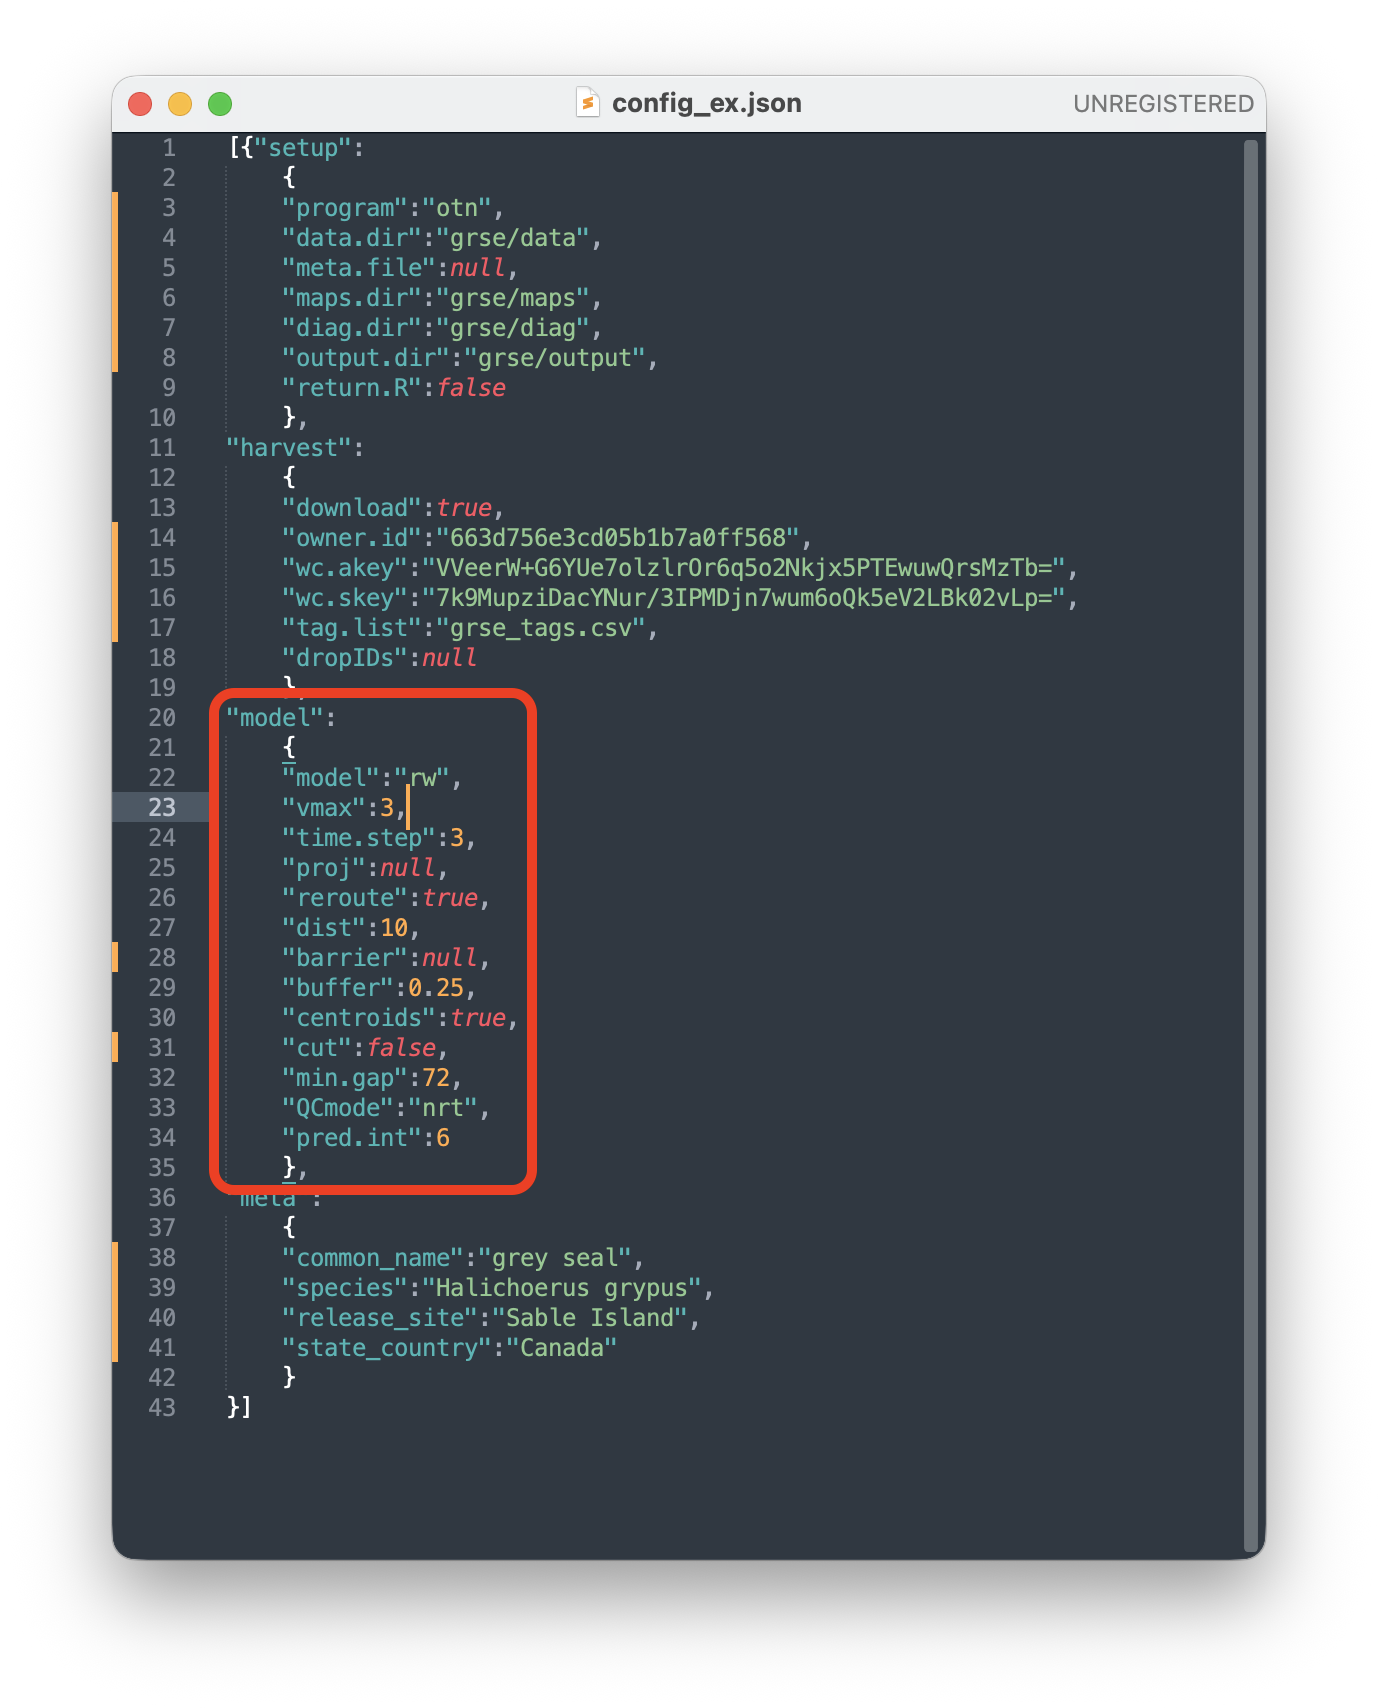
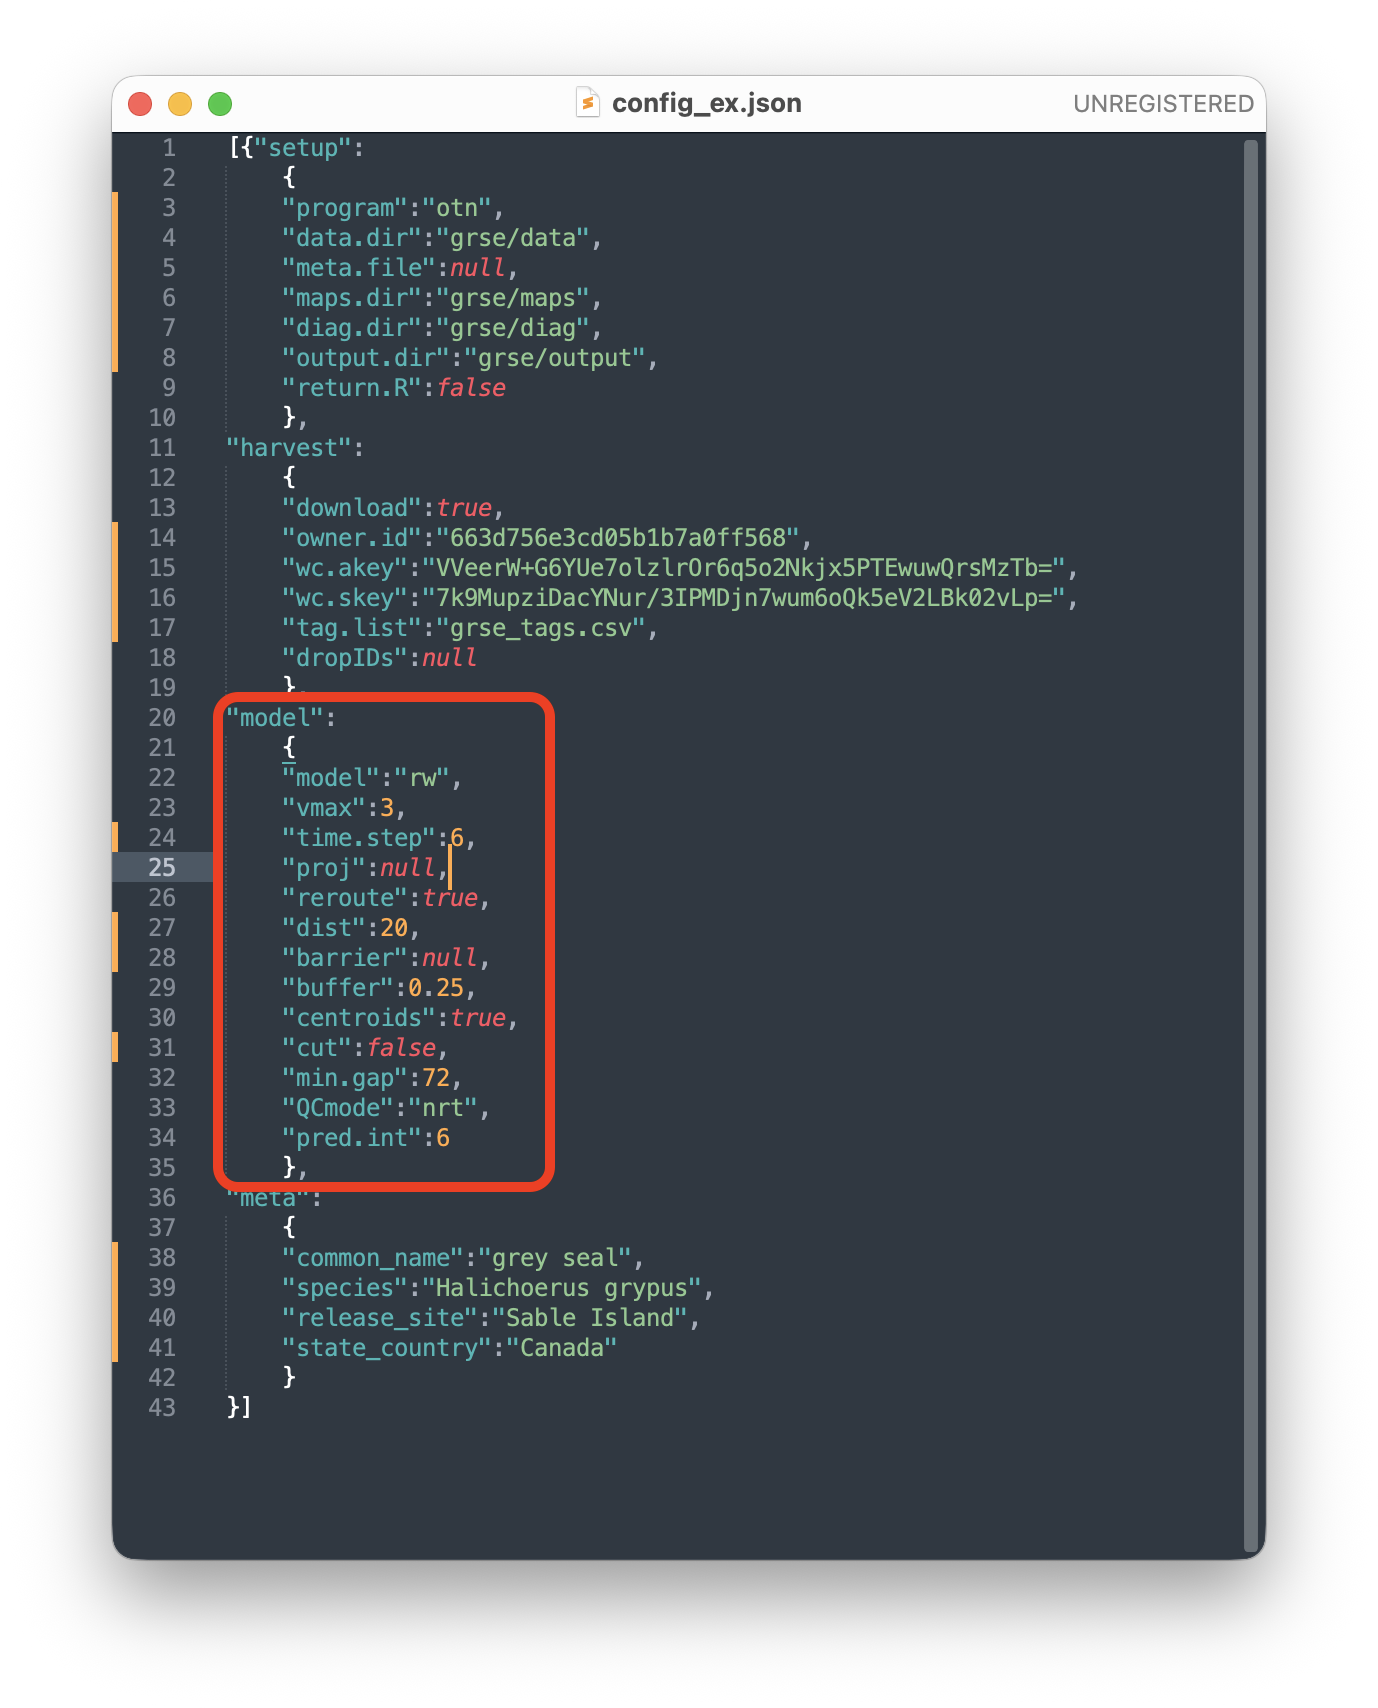
full WC config How to

Changed region(s): [[0.156, 0.4034, 0.4057, 0.7137], [0.0624, 0.4344, 0.156, 0.5275]]

diff --git a/_episodes/30_near_real_time_qc_process.md b/_episodes/30_near_real_time_qc_process.md
@@ -74,30 +74,30 @@ The `setup` block specifies the National Observing Program (e.g., `atn`, `otn`, 
 The JSON file for NRT QC of Wildlife Computers (WC) tags looks like this:
 
 ```
-[{"setup": 
+{"setup": 
 	{
 	"program":"otn",
-	"data.dir":"data_grey_seal_lidgard",
+	"data.dir":"grse/data",
 	"meta.file":null,
-	"maps.dir":"output/maps/grey_seal_lidgard",
-	"diag.dir":"output/diag/grey_seal_lidgard",
-	"output.dir":"output/irap/grey_seal_lidgard",
+	"maps.dir":"grse/maps",
+	"diag.dir":"grse/diag",
+	"output.dir":"grse/output",
 	"return.R":false
 	},
 "harvest": 
 	{
 	"download":true,
-	"owner.id":"558abcaea86a234b286bdc3e",
-	"wc.akey":"...",
-	"wc.skey":"...",
-	"tag.list":"grey_seal_lidgard_tags.csv",
+	"owner.id":"663d756e3cd05b1b7a0ff568",
+	"wc.akey":"VVeerW+G6YUe7olzlrOr6q5o2Nkjx5PTEwuwQrsMzTb=",
+	"wc.skey":"7k9MupziDacYNur/3IPMDjn7wum6oQk5eV2LBk02vLp=",
+	"tag.list":"grse_tags.csv",
 	"dropIDs":null
 	},
 "model": 
 	{
 	"model":"rw",
 	"vmax":3,
-	"time.step":3,
+	"time.step":6,
 	"proj":null,
 	"reroute":true,
 	"dist":20,
@@ -113,7 +113,7 @@ The JSON file for NRT QC of Wildlife Computers (WC) tags looks like this:
 	{
 	"common_name":"grey seal",
 	"species":"Halichoerus grypus",
-	"release_site":"unknown",
+	"release_site":"Sable Island",
 	"state_country":"Canada"
 	}
 }]
@@ -236,9 +236,21 @@ Steps 2 and 3 only need to be done once.
 
     ![](../fig/wc_config_model_params.png){width=400}
 
-    See the `Configuring ArgosQC` section (above) for an explanation of the typical parameter values. Generally, the config parameters only need to be set once per species but arriving at reasonable parameter values usually requires at least one QC test run. The node manager should examine the QC-generated map & diagnostic plots to ensure the QC results are reasonable. Below are some examples of the maps & diagnostic plots from "good" and "bad" QC outcomes.
+    See the `Configuring ArgosQC` section (above) for an explanation of the typical parameter values. Generally, the config parameters only need to be set once per species but arriving at reasonable parameter values usually requires at least one QC test run. The node manager should examine the QC-generated map of SSM-estimated locations & diagnostic plots to ensure the QC results are reasonable before operationalizing the workflow. Below are some examples of the maps & diagnostic plots with varying `time.step` parameter values.
 
-**More details on setup to go here**
+    ![](../fig/wc_qc_map12.png){width=400} ![](../fig/wc_qc_map6.png){width=400} 
+    ![](../fig/wc_qc_map3.png){width=400} ![](../fig/wc_qc_map1.png){width=400}
+    
+    Notice how the 12-h `time.step` results in jagged tracks that lack the movement detail of the tracks QC'd at shorter `time.step`'s. This is an indication that the 12-h `time.step` is a bit too coarse given the temporal resolution of the Argos locations. Conversely, the 1-h `time.step` results in some very obviously straight lines along which the SSM-estimated locations fall. This is an indication that the `time.step` is too fine relative to the frequency of the data and the SSM is interpolating too much between the Argos locations. If you look carefully, you can also see a hint of these straightlines in the 3-h `time.step` tracks, suggesting that the 6-h `time.step` may be the better choice for these data. In practice, either the 3- or the 6-h `time.step` will work almost equally for the NRT QC of these data. If a lot of tags (e.g., > 20) are being processed in one QC workflow then it will be a bit more efficient to choose the 6-h `time.step`.
+    
+    A check of the model fit diagnostic plots (just latitudes for the 2 grey seal tracks shown below) indicdates the model is fitting the Argos data reasonably well because the SSM-estimated latitudes (red points) generally smooth through the Argos latitudes (blue points). Bad fits would be characterized with numerous red points outside of the blue points (ie. above or below) - this case would suggest a slightly coarser `time.step` may be needed. Note, these diagnostic model fit plots do usually not change with differing `time.step`'s.
+    ![](../fig/wc_qc_lat_ssmfit.png)
+    
+    A final note on re-routing locations off of land. The example config file has the rerouting parameter `model:reroute` set to `true`, but a significant number of the seals' locations occur on Sable Island because the seals return to land periodically during the tag deployments (see above maps - Sable Island is roughly at the map centre where there is a large concentration of locations). A model run with re-routing turned on results in some re-routing artefacts (denoted by red arrows):
+    ![](../fig/wc_qc_map_reroute.png){width=600}
+    
+    For this reason, `model:reroute` was set to `false` and we accept that some small portion of locations may erroneously fall on land. A better solution for this issue would be generate a custom land polygon shapefile of the Nova Scotia mainland without a polygon for Sable Island. The is custom shapefile could then be added to the config file by providing the filename and path to the `model:barrier` parameter and setting `model:reroute` back to `true`.
+    
 
 11. The `meta` section of the config file is only required if no metadata file is provided in the `setup` block. When no metadata file is provided, ArgosQC uses the fields in the `meta` block plus partial deployment metadata downloaded from the WC Portal. ArgosQC assembles these metadata attributes and writes a deployment metadata CSV file as one of the QC outputs. This file, if sufficiently complete, can be used as an input to subsequent QC runs by supplying the CSV file in the `setup` block. When both a metadata file & completed `meta` config block are provided, the attributes from the metadata file will supersede those in the `meta` block.
 
